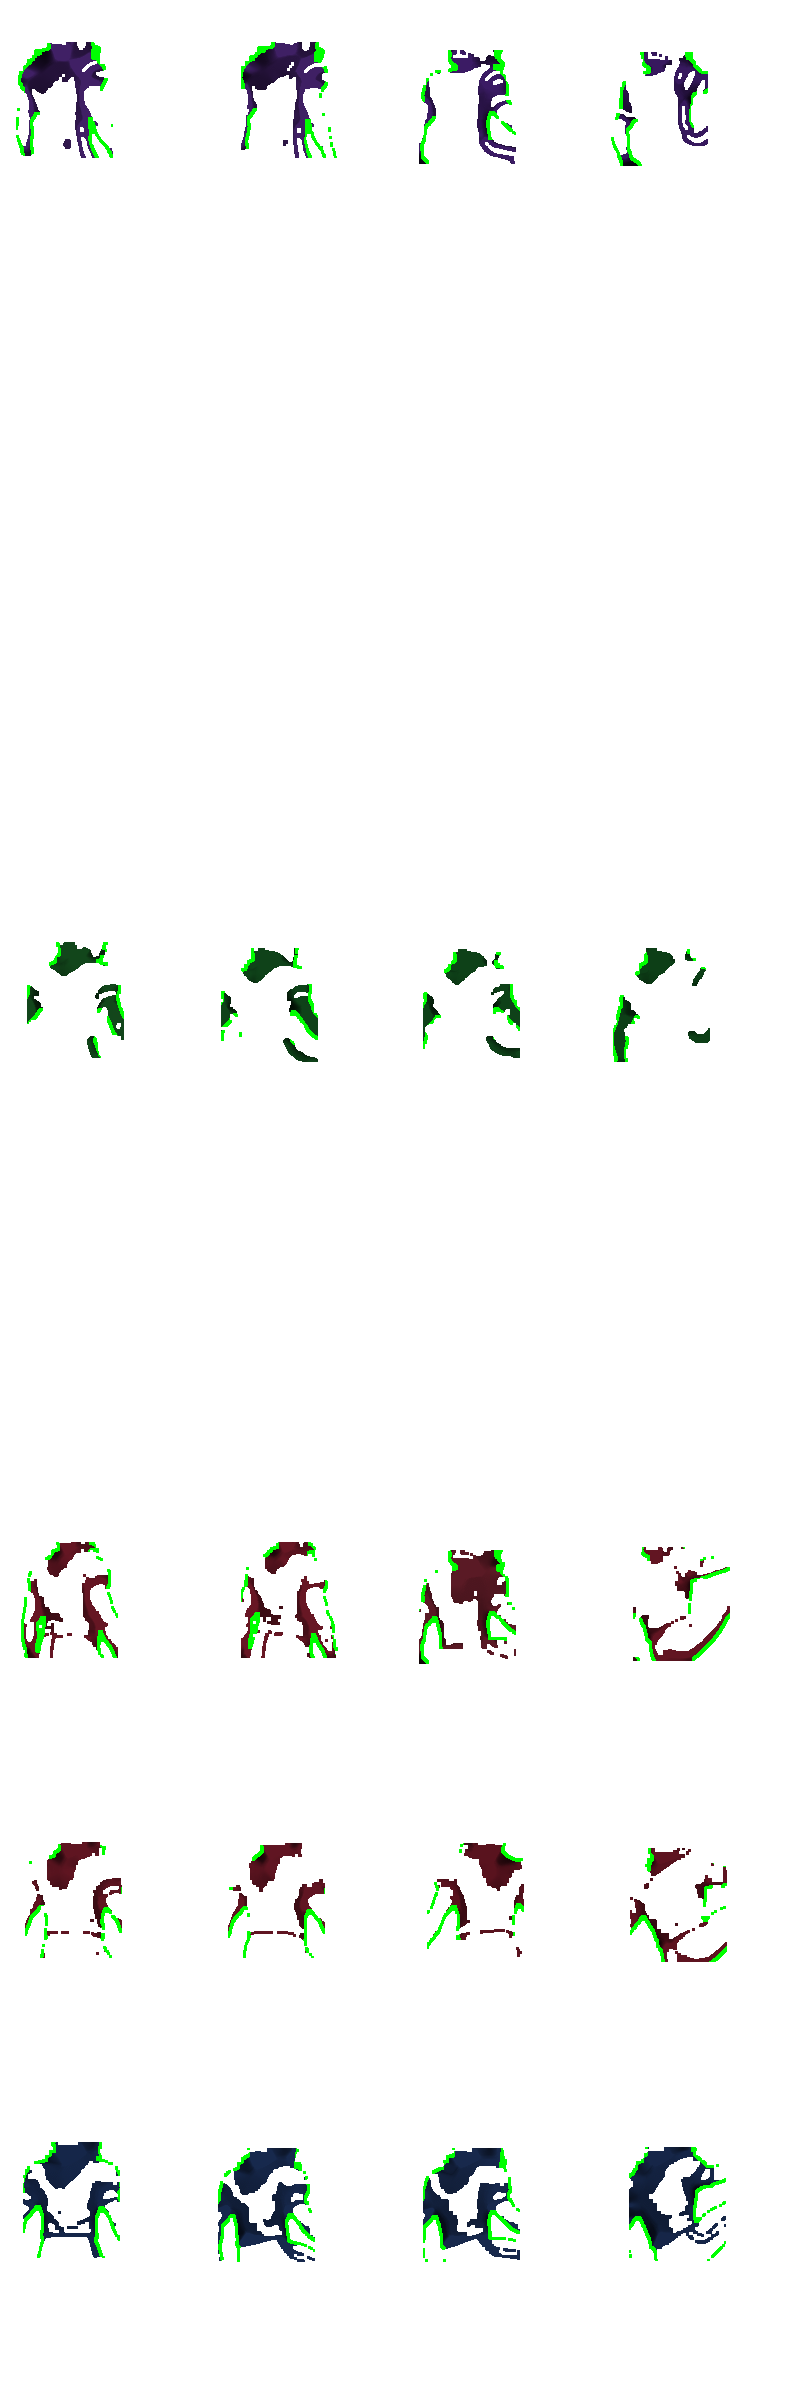
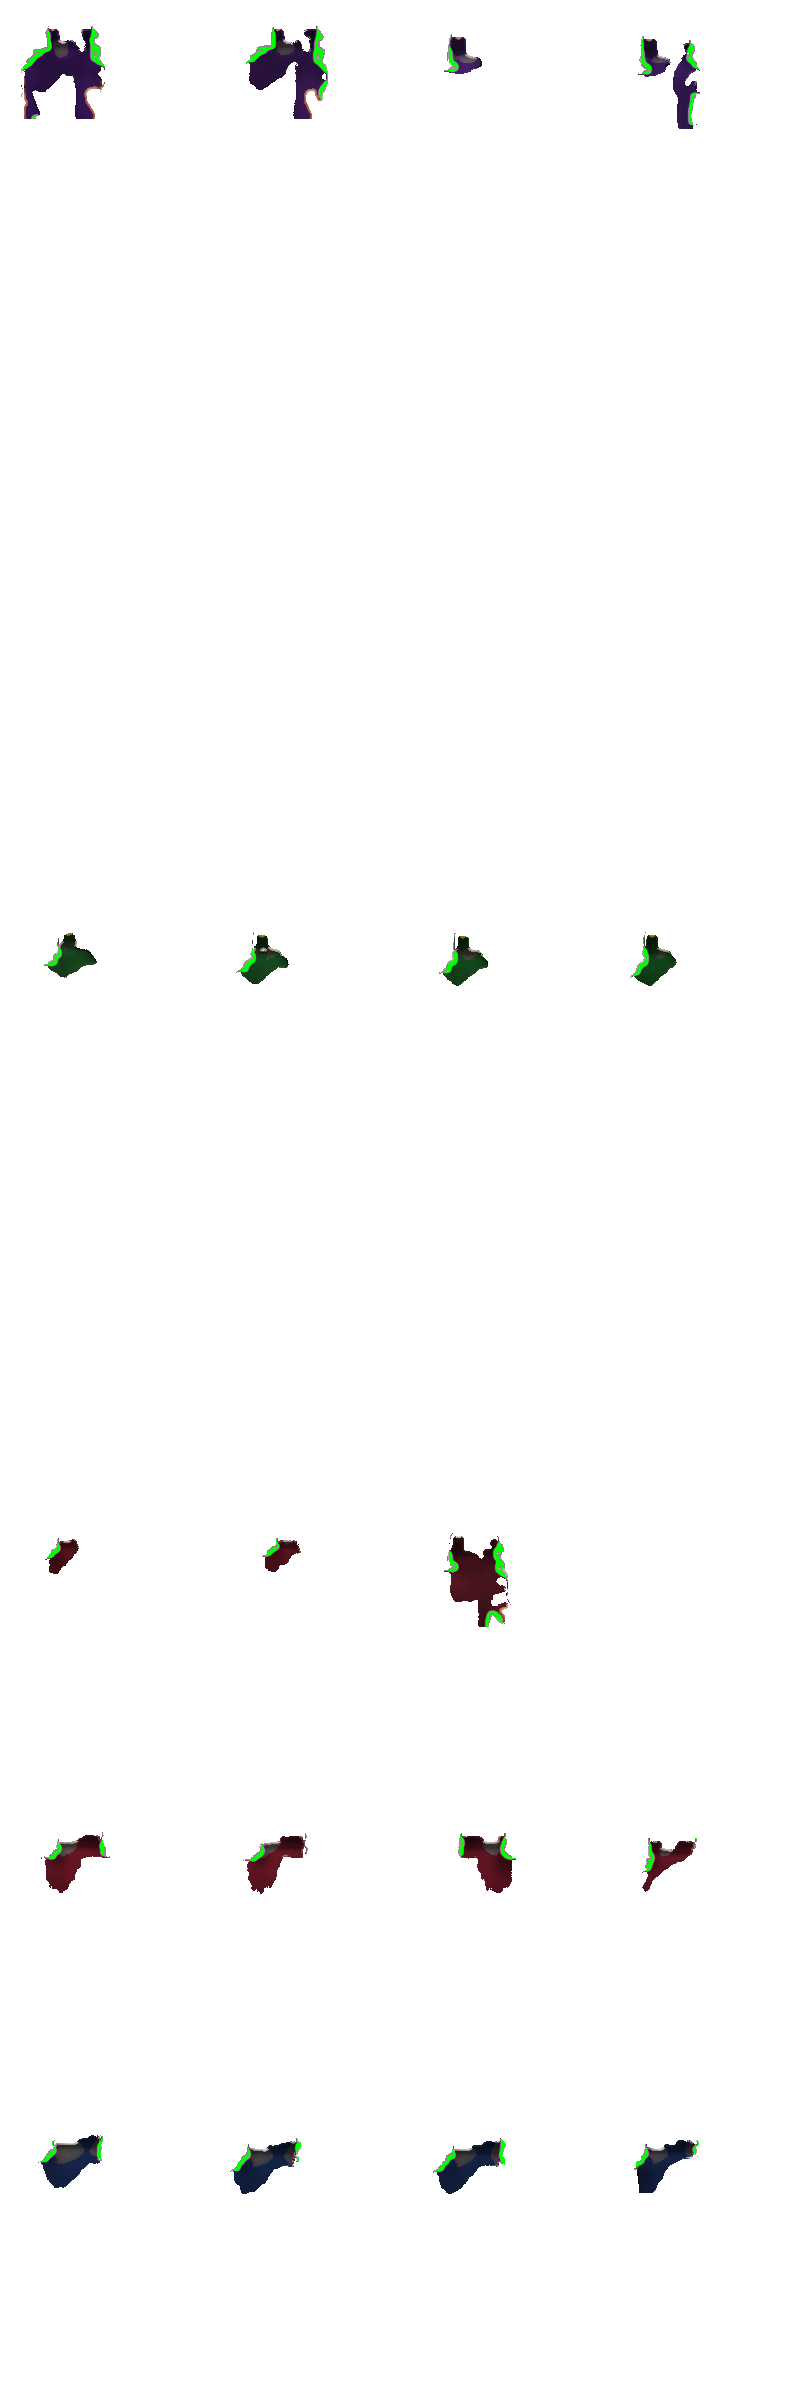
S2: painted Wes holder sprite; hand-retouched kicker neck patch (story only)

diff --git a/index.html b/index.html
@@ -25,4 +25,4 @@
 <script src="s31.js?v=1792273000"></script>
 <script src="s32.js?v=1792273000"></script>
 <script src="s33.js"></script>
-<script src="s34.js?v=1792273000"></script><script src="s35.js?v=1792273000"></script><script src="s36.js?v=1792273000"></script><script src="s37.js?v=1792273000"></script><script src="i18n_es.js?v=1792288000"></script><script src="s38.js?v=1792275000"></script><script src="s39.js?v=1792273000"></script><script src="s40.js?v=1792273000"></script><script src="s41.js?v=1792273000"></script><script src="s42.js?v=1792273000"></script><script src="s43.js?v=1792273000"></script><script src="s44.js?v=1792273000"></script><script src="s45.js?v=1792273000"></script><script src="s46.js?v=1792279000"></script><script src="s47.js?v=1792273000"></script><script src="s48.js?v=1792273000"></script><script src="s49.js?v=1792288000"></script><script src="s50.js?v=1792273000"></script><script src="s51.js?v=1792273000"></script><script src="s52.js?v=1792273000"></script><script src="s53.js?v=1792273000"></script><script src="s54.js?v=1792273000"></script><script src="s55.js?v=1792273000"></script><script src="s56.js?v=1792273000"></script><script src="s57.js?v=1792273000"></script><script src="s58.js?v=1792273000"></script><script src="s59.js?v=1792273000"></script><script src="s60.js?v=1792273000"></script><script src="s61.js?v=1792273000"></script><script src="s62.js?v=1792278100"></script><script src="s63.js?v=1792273000"></script><script src="s64.js?v=1792273000"></script><script src="s65a.js?v=1792273000"></script><script src="s65.js?v=1792273000"></script><script src="s66.js?v=1792273000"></script><script src="s67.js?v=1792283000"></script><script src="s68.js?v=1792273000"></script><script src="s69.js?v=1792273000"></script><script src="s70.js?v=1792273000"></script><script src="s71.js?v=1792278000"></script><script src="s72.js?v=1792273000"></script><script src="s73.js?v=1792273000"></script><script src="s74.js?v=1792273000"></script><script src="s75.js?v=1792273000"></script><script src="s76.js?v=1792273000"></script><script src="s77.js?v=1792273000"></script><script src="s78.js?v=1792273000"></script><script src="s79.js?v=1792275000"></script><script src="s80.js?v=1792273000"></script><script src="s81.js?v=1792273000"></script><script src="s82.js?v=1792273000"></script><script src="s83.js?v=1792273000"></script><script src="s84.js?v=1792273000"></script><script src="s85.js?v=1792273000"></script><script src="s86.js?v=1792273100"></script><script src="s87.js?v=1792273000"></script><script src="s88.js?v=1792278000"></script><script src="s89.js?v=1792274000"></script><script src="story-kid.js?v=1792340000"></script><script src="story1.js?v=1792530000"></script><script src="s90.js?v=1792274000"></script><script src="s91.js?v=1792275000"></script><script src="s92.js?v=1792282000"></script><script src="s93.js?v=1792277100"></script><script src="s94.js?v=1792285000"></script><script src="s95.js?v=1792278100"></script><script src="s96.js?v=1792279100"></script><script src="s97.js?v=1792280100"></script><script src="s98.js?v=1792281100"></script><script src="s99.js?v=1792282100"></script><script src="s100.js?v=1792282100"></script><script src="s101.js?v=1792283100"></script><script src="s102.js?v=1792285100"></script><script src="s103.js?v=1792285100"></script><script src="s104.js?v=1792285100"></script><script src="s105.js?v=1792286000"></script><script src="s106.js?v=1792287000"></script><script src="s107.js?v=1792287000"></script><script src="s108.js?v=1792288000"></script><script src="s109.js?v=1792310000"></script></body></html>
+<script src="s34.js?v=1792273000"></script><script src="s35.js?v=1792273000"></script><script src="s36.js?v=1792273000"></script><script src="s37.js?v=1792273000"></script><script src="i18n_es.js?v=1792288000"></script><script src="s38.js?v=1792275000"></script><script src="s39.js?v=1792273000"></script><script src="s40.js?v=1792273000"></script><script src="s41.js?v=1792273000"></script><script src="s42.js?v=1792273000"></script><script src="s43.js?v=1792273000"></script><script src="s44.js?v=1792273000"></script><script src="s45.js?v=1792273000"></script><script src="s46.js?v=1792279000"></script><script src="s47.js?v=1792273000"></script><script src="s48.js?v=1792273000"></script><script src="s49.js?v=1792288000"></script><script src="s50.js?v=1792273000"></script><script src="s51.js?v=1792273000"></script><script src="s52.js?v=1792273000"></script><script src="s53.js?v=1792273000"></script><script src="s54.js?v=1792273000"></script><script src="s55.js?v=1792273000"></script><script src="s56.js?v=1792273000"></script><script src="s57.js?v=1792273000"></script><script src="s58.js?v=1792273000"></script><script src="s59.js?v=1792273000"></script><script src="s60.js?v=1792273000"></script><script src="s61.js?v=1792273000"></script><script src="s62.js?v=1792278100"></script><script src="s63.js?v=1792273000"></script><script src="s64.js?v=1792273000"></script><script src="s65a.js?v=1792273000"></script><script src="s65.js?v=1792273000"></script><script src="s66.js?v=1792273000"></script><script src="s67.js?v=1792283000"></script><script src="s68.js?v=1792273000"></script><script src="s69.js?v=1792273000"></script><script src="s70.js?v=1792273000"></script><script src="s71.js?v=1792278000"></script><script src="s72.js?v=1792273000"></script><script src="s73.js?v=1792273000"></script><script src="s74.js?v=1792273000"></script><script src="s75.js?v=1792273000"></script><script src="s76.js?v=1792273000"></script><script src="s77.js?v=1792273000"></script><script src="s78.js?v=1792273000"></script><script src="s79.js?v=1792275000"></script><script src="s80.js?v=1792273000"></script><script src="s81.js?v=1792273000"></script><script src="s82.js?v=1792273000"></script><script src="s83.js?v=1792273000"></script><script src="s84.js?v=1792273000"></script><script src="s85.js?v=1792273000"></script><script src="s86.js?v=1792273100"></script><script src="s87.js?v=1792273000"></script><script src="s88.js?v=1792278000"></script><script src="s89.js?v=1792274000"></script><script src="story-kid.js?v=1792340000"></script><script src="story1.js?v=1792600000"></script><script src="s90.js?v=1792274000"></script><script src="s91.js?v=1792275000"></script><script src="s92.js?v=1792282000"></script><script src="s93.js?v=1792277100"></script><script src="s94.js?v=1792285000"></script><script src="s95.js?v=1792278100"></script><script src="s96.js?v=1792279100"></script><script src="s97.js?v=1792280100"></script><script src="s98.js?v=1792281100"></script><script src="s99.js?v=1792282100"></script><script src="s100.js?v=1792282100"></script><script src="s101.js?v=1792283100"></script><script src="s102.js?v=1792285100"></script><script src="s103.js?v=1792285100"></script><script src="s104.js?v=1792285100"></script><script src="s105.js?v=1792286000"></script><script src="s106.js?v=1792287000"></script><script src="s107.js?v=1792287000"></script><script src="s108.js?v=1792288000"></script><script src="s109.js?v=1792310000"></script></body></html>

diff --git a/story1.js b/story1.js
@@ -369,10 +369,10 @@ function hawkify(src,ti){if(!src||!src.width)return src;let m=RC.get(src);if(m&&
   if(to){const k=Math.max(0.35,Math.min(1.5,H[2]/Math.max(0.15,ref[2])));a[i]=Math.min(255,to[0]*k);a[i+1]=Math.min(255,to[1]*k);a[i+2]=Math.min(255,to[2]*k)}}
  x.putImageData(d,0,0);RC.set(src,{ti,c});return c}
 // Story kicker: same sheet with the long hair painted out under the helmet (frames/poses identical; story kicks only)
-const NHI=new Image();NHI.src='story/kickers_nohair.webp?v=1';const NHC={},LONGHAIR=new Set([0,3,5,6,7]);
+const NHI=new Image();NHI.src='story/kickers_nohair.webp?v=1792600000';const NHC={},LONGHAIR=new Set([0,3,5,6,7]);
 function noHair(s,ti){if(MK.on||!LONGHAIR.has(ti)||!NHI.complete||!NHI.naturalWidth||!s||s.width!==812||s.height!==300)return s;if(NHC[ti]&&NHC[ti].__s===s)return NHC[ti];const c=document.createElement('canvas');c.width=812;c.height=300;const x=c.getContext('2d');x.drawImage(s,0,0);if(!NHI.__d){const t=document.createElement('canvas');t.width=812;t.height=NHI.naturalHeight;t.getContext('2d').drawImage(NHI,0,0);NHI.__d=t.getContext('2d').getImageData(0,0,812,NHI.naturalHeight).data}
- const d=x.getImageData(0,0,812,300),a=d.data,P2=NHI.__d,o=ti*300*812*4;for(let i=0;i<a.length;i+=4){const q=o+i;if(P2[q+3]<128)continue;if(P2[q]<20&&P2[q+1]>230&&P2[q+2]<20){a[i+3]=0;continue}{const mx=Math.max(a[i],a[i+1],a[i+2]),mn=Math.min(a[i],a[i+1],a[i+2]);if(mx>170&&mx-mn<40)continue}// keep the jersey number
- a[i]=P2[q];a[i+1]=P2[q+1];a[i+2]=P2[q+2]}x.putImageData(d,0,0);c.__s=s;return NHC[ti]=c}
+ const d=x.getImageData(0,0,812,300),a=d.data,P2=NHI.__d,o=ti*300*812*4;for(let i=0;i<a.length;i+=4){const q=o+i;if(P2[q+3]<128)continue;if(P2[q]<20&&P2[q+1]>230&&P2[q+2]<20){a[i+3]=0;continue}
+ a[i]=P2[q];a[i+1]=P2[q+1];a[i+2]=P2[q+2];a[i+3]=Math.min(255,(P2[q+3]-128)*2)}/* retouched neck: rgb + feathered alpha */x.putImageData(d,0,0);c.__s=s;return NHC[ti]=c}
 {const ok=S5.kimg;S5.kimg=function(ti,p2){const s=ok.apply(this,arguments);try{if(isStory()&&!p2&&!(MK.on&&MK.masc>=0))return hawkify(noHair(s,ti),ti)}catch(e){}return s}}
 // ---- Hawks mascot on our sideline: the game's hawk mascot, tinted Hollow Creek red ----
 const HAWKS_T=Math.max(0,TEAMS.findIndex(t=>t.k==='hawks'));
@@ -489,12 +489,16 @@ function drawHolder(p,r){const u=r*0.6;ctx.save();ctx.lineCap='round';ctx.lineJo
  ctx.strokeStyle='#8f9398';ctx.lineWidth=Math.max(1,u*0.2);ctx.beginPath();ctx.moveTo(hdx-u*1.25,hdy+u*0.05);ctx.quadraticCurveTo(hdx-u*1.75,hdy+u*0.6,hdx-u*1.45,hdy+u*1.05);ctx.stroke();
  ctx.fillStyle='#2a2a2a';ctx.beginPath();ctx.arc(hdx-u*0.1,hdy+u*0.3,u*0.18,0,7);ctx.fill();// ear hole
  ctx.restore();return tip}
+// painted holder sprite (Wes): ball centre in sprite at (69.2,611.5), ball height 183.4px
+const HIMG={b:new Image(),h:new Image()};HIMG.b.src='story/holder_s2.webp?v=1792600000';HIMG.h.src='story/holder_s2_hand.webp?v=1792600000';
+function hImg(im,p){const k=2*p.r/183.4;ctx.drawImage(im,p.x-69.2*k,p.y-611.5*k,im.naturalWidth*k,im.naturalHeight*k)}
 const HOLD=()=>isStory()&&SEA===2&&!JG;let HP=null;
 const odb5=drawBall;drawBall=function(){if(!HOLD())return odb5.apply(this,arguments);let p=null;try{p=SP(ball.x,ball.y,ball.z)}catch(e){}
  if(!ball.fly&&p){HP={x:p.x,y:p.y,r:Math.max(2.5,p.s*0.19)}}
- let tip=null;try{if(HP)tip=drawHolder(HP,HP.r)}catch(e){}
+ let tip=null;try{if(HP){if(HIMG.b.complete&&HIMG.b.naturalWidth)hImg(HIMG.b,HP);else tip=drawHolder(HP,HP.r)}}catch(e){}
  const of=ctx.fill;if(!ball.fly)ctx.fill=function(){if(this.fillStyle==='#ff7a00')return;return of.apply(this,arguments)};// no tee: the holder holds it
  let r;try{r=odb5.apply(this,arguments)}finally{delete ctx.fill}
+ try{if(!ball.fly&&HP&&HIMG.h.complete&&HIMG.h.naturalWidth&&!tip)hImg(HIMG.h,HP)}catch(e){}
  try{if(!ball.fly&&tip){ctx.save();ctx.fillStyle='#e0b08e';ctx.beginPath();ctx.ellipse(tip.x+u2(HP),tip.y,HP.r*0.28,HP.r*0.42,0.3,0,7);ctx.fill();ctx.restore()}}catch(e){}
  return r};
 const u2=h=>h.r*0.15;
